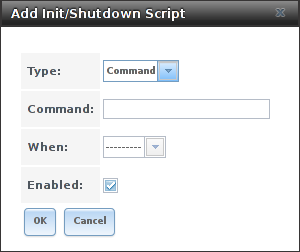
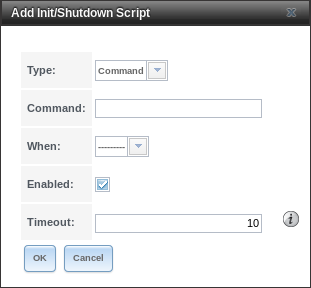
NAS-100921: Add "Timeout" to Init/Shutdown Command or Script Options table Add intro entry Update tasks-initshutdown.png HTML build test: no issues.

diff --git a/userguide/tasks.rst b/userguide/tasks.rst
@@ -413,6 +413,8 @@ and click :guilabel:`Add Init/Shutdown Script`.
    | Enabled     | checkbox       | Enable this task. Unset to disable the task without deleting it.                             |
    |             |                |                                                                                              |
    +-------------+----------------+----------------------------------------------------------------------------------------------+
+   | Timeout     | integer        | Automatically stop the script or command after the specified number of seconds.              |
+   +-------------+----------------+----------------------------------------------------------------------------------------------+
 
 
 Scheduled commands must be in the default path. The full path to the

diff --git a/userguide/intro.rst b/userguide/intro.rst
@@ -127,6 +127,9 @@ These screen options have changed:
 * :guilabel:`Exclude` has been added to
   :menuselection:`Tasks --> Cloud Sync --> Add Cloud Sync`.
 
+* :guilabel:`Timeout` has been added to
+  :menuselection:`Tasks --> Init/Shutdown Scripts --> Add Init/Shutdown Script`.
+
 * The :guilabel:`MTU` field has been added to
   :menuselection:`Network --> Interfaces --> Add Interface`.
 
